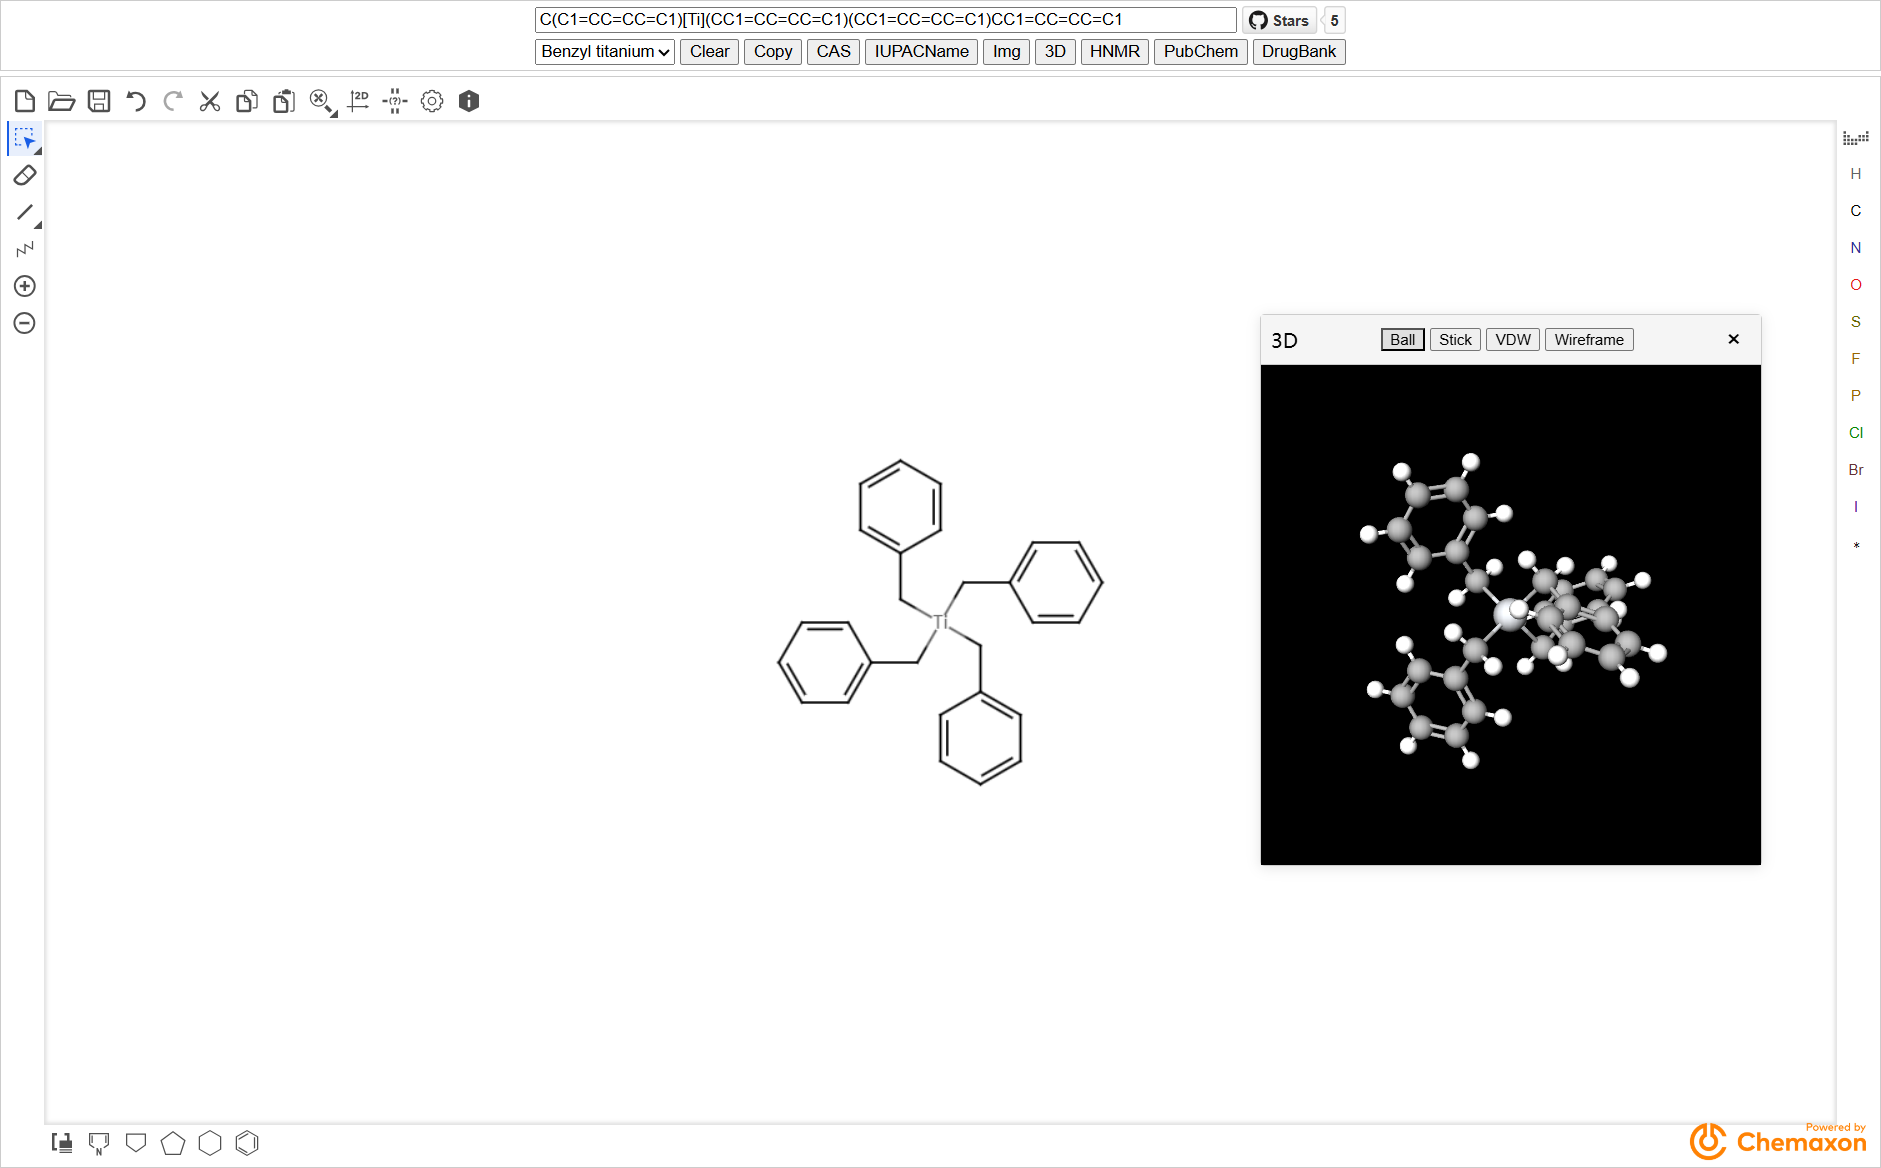
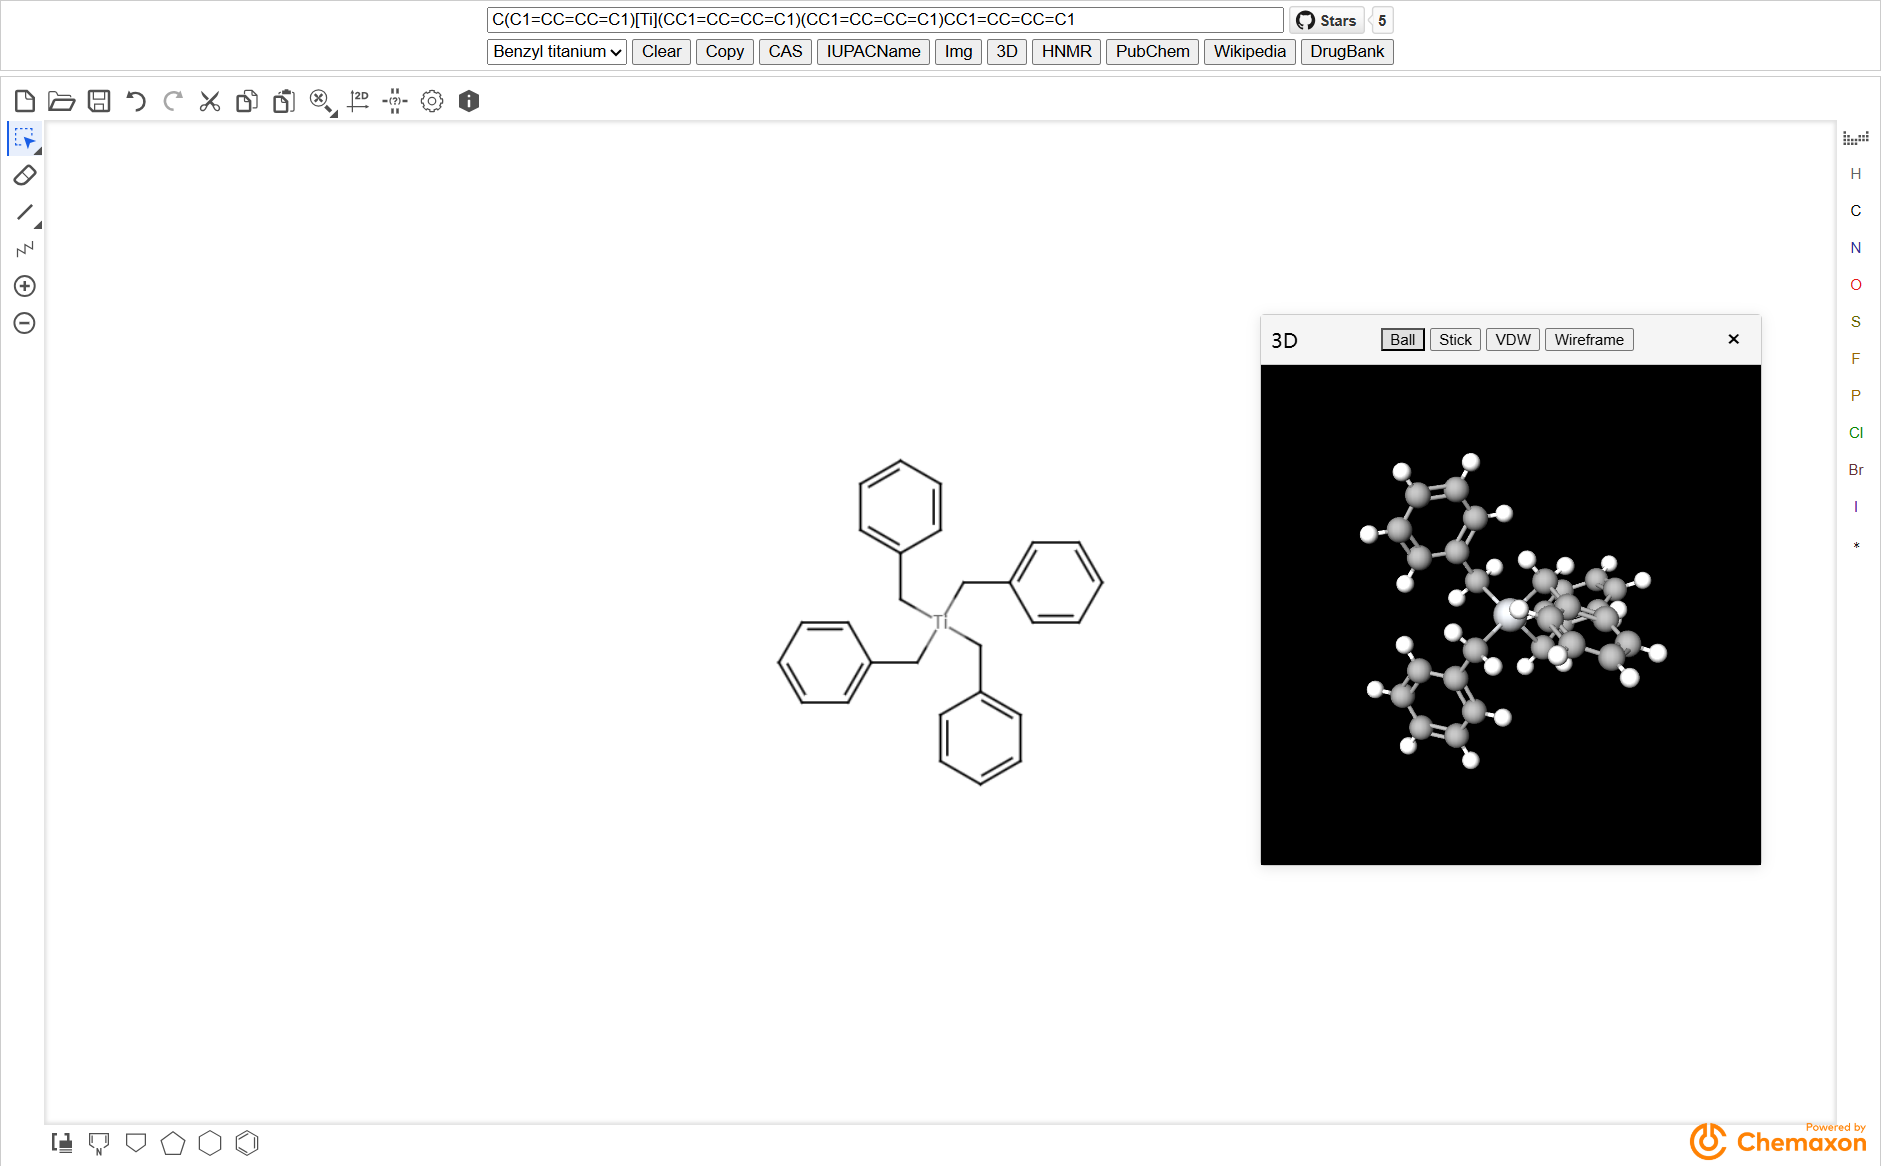
add wikipedia search

diff --git a/src/components/ControlPanel.vue b/src/components/ControlPanel.vue
@@ -40,6 +40,7 @@
         <button @click="handle3DView">3D</button>
         <button @click="handleHNMR">HNMR</button>
         <button @click="handlePubChem">PubChem</button>
+        <button @click="handleGetWikipedia">Wikipedia</button>
         <button @click="handleGetDrugBank">DrugBank</button>
       </div>
     </div>
@@ -156,6 +157,15 @@ export default {
       } catch (e) {
         return null;
       }
+    },
+
+    async getPubChemData(cid) {
+      const url = `https://pubchem.ncbi.nlm.nih.gov/rest/pug_view/data/compound/${cid}/JSON/`;
+      const response = await fetch(url);
+      if (!response.ok) {
+        throw new Error('获取 PubChem 数据失败');
+      }
+      return await response.json();
     },
 
     async handleGetCAS() {
@@ -315,12 +325,7 @@ export default {
           alert('未找到对应的化合物');
           return;
         }
-        const url = `https://pubchem.ncbi.nlm.nih.gov/rest/pug_view/data/compound/${cid}/JSON/`;
-        const response = await fetch(url);
-        if (!response.ok) {
-          throw new Error('获取 DrugBank ID 失败');
-        }
-        const data = await response.json();
+        const data = await this.getPubChemData(cid);
 
         function findDrugBankId(sections) {
           for (const section of sections || []) {
@@ -385,6 +390,58 @@ export default {
       } finally {
         this.loading = false;
       }
+    },
+
+    async handleGetWikipedia() {
+      if (!this.smilesValue) {
+        return;
+      }
+      this.loading = true;
+      try {
+        const cid = await this.getPubChemCID(this.smilesValue);
+        if (!cid) {
+          alert('未找到对应的化合物');
+          return;
+        }
+        const data = await this.getPubChemData(cid);
+
+        function findWikipediaLink(sections, recordTitle) {
+          for (const section of sections || []) {
+            if (section.TOCHeading === 'Wikipedia') {
+              const information = section.Information || [];
+              if (information.length > 1 && recordTitle) {
+                for (const info of information) {
+                  const wikiTitle = info.Value?.StringWithMarkup?.[0]?.String;
+                  if (wikiTitle && recordTitle.toLowerCase().includes(wikiTitle.toLowerCase())) {
+                    return info.URL;
+                  }
+                }
+              }
+              const firstInfo = information[0];
+              if (firstInfo && firstInfo.URL) {
+                return firstInfo.URL;
+              }
+            }
+            if (section.Section) {
+              const result = findWikipediaLink(section.Section, recordTitle);
+              if (result) return result;
+            }
+          }
+          return null;
+        }
+
+        const wikipediaUrl = findWikipediaLink(data.Record?.Section, data.Record?.RecordTitle);
+
+        if (wikipediaUrl) {
+          window.open(wikipediaUrl, '_blank');
+        } else {
+          alert('未找到 Wikipedia 链接');
+        }
+      } catch (e) {
+        alert('获取 Wikipedia 链接失败');
+      } finally {
+        this.loading = false;
+      }
     }
   }
 }
@@ -412,7 +469,7 @@ export default {
   display: flex;
   align-items: center;
   width: 100%;
-  max-width: 649px;
+  max-width: 725px;
   gap: 4px;
 }
 
@@ -452,7 +509,7 @@ export default {
   z-index: 9999;
 }
 
-@media screen and (max-width: 675px) {
+@media screen and (max-width: 750px) {
   .button-group {
     flex-direction: row;
     flex-wrap: wrap;

diff --git a/src/components/MarvinEditor.vue b/src/components/MarvinEditor.vue
@@ -35,7 +35,7 @@ export default {
   flex-direction: column;
   align-items: center;
 }
-@media screen and (max-width: 675px) {
+@media screen and (max-width: 750px) {
   .control-panel {
     height: 75vh;
     margin-bottom: 0;

diff --git a/README.md b/README.md
@@ -9,7 +9,12 @@ Powered by [Chemaxon](https://chemaxon.com)
 - [pubchem](https://pubchem.ncbi.nlm.nih.gov)
 - [nmrdb](https://www.nmrdb.org)
 - [molview](https://molview.org)
+
+> [!tip]
+> DrugBank和Wikipedia跳转链接来自PubChem JSON
+
 - [drugbank](https://go.drugbank.com)
+- [wikipedia](https://en.wikipedia.org)
 
 ## 预览
 
@@ -21,6 +26,7 @@ Powered by [Chemaxon](https://chemaxon.com)
 - PubChem搜索
 - HNMR搜索
 - DrugBank搜索
+- Wikipedia搜索
 - Example:
     - Benzyl titanium
     - Pregabalin
